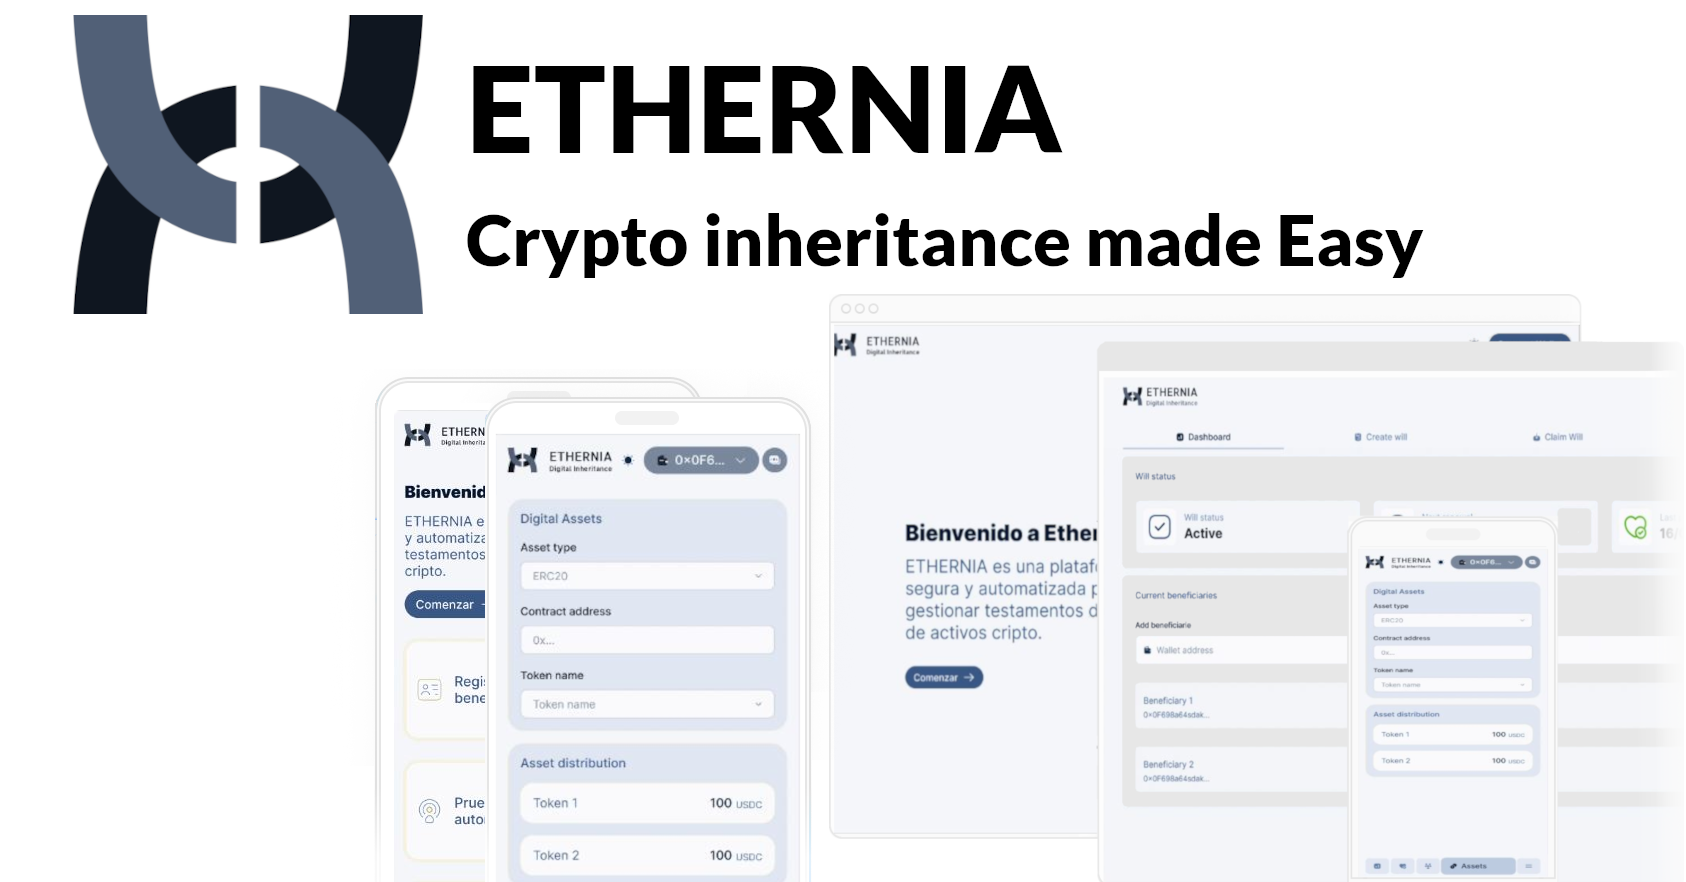
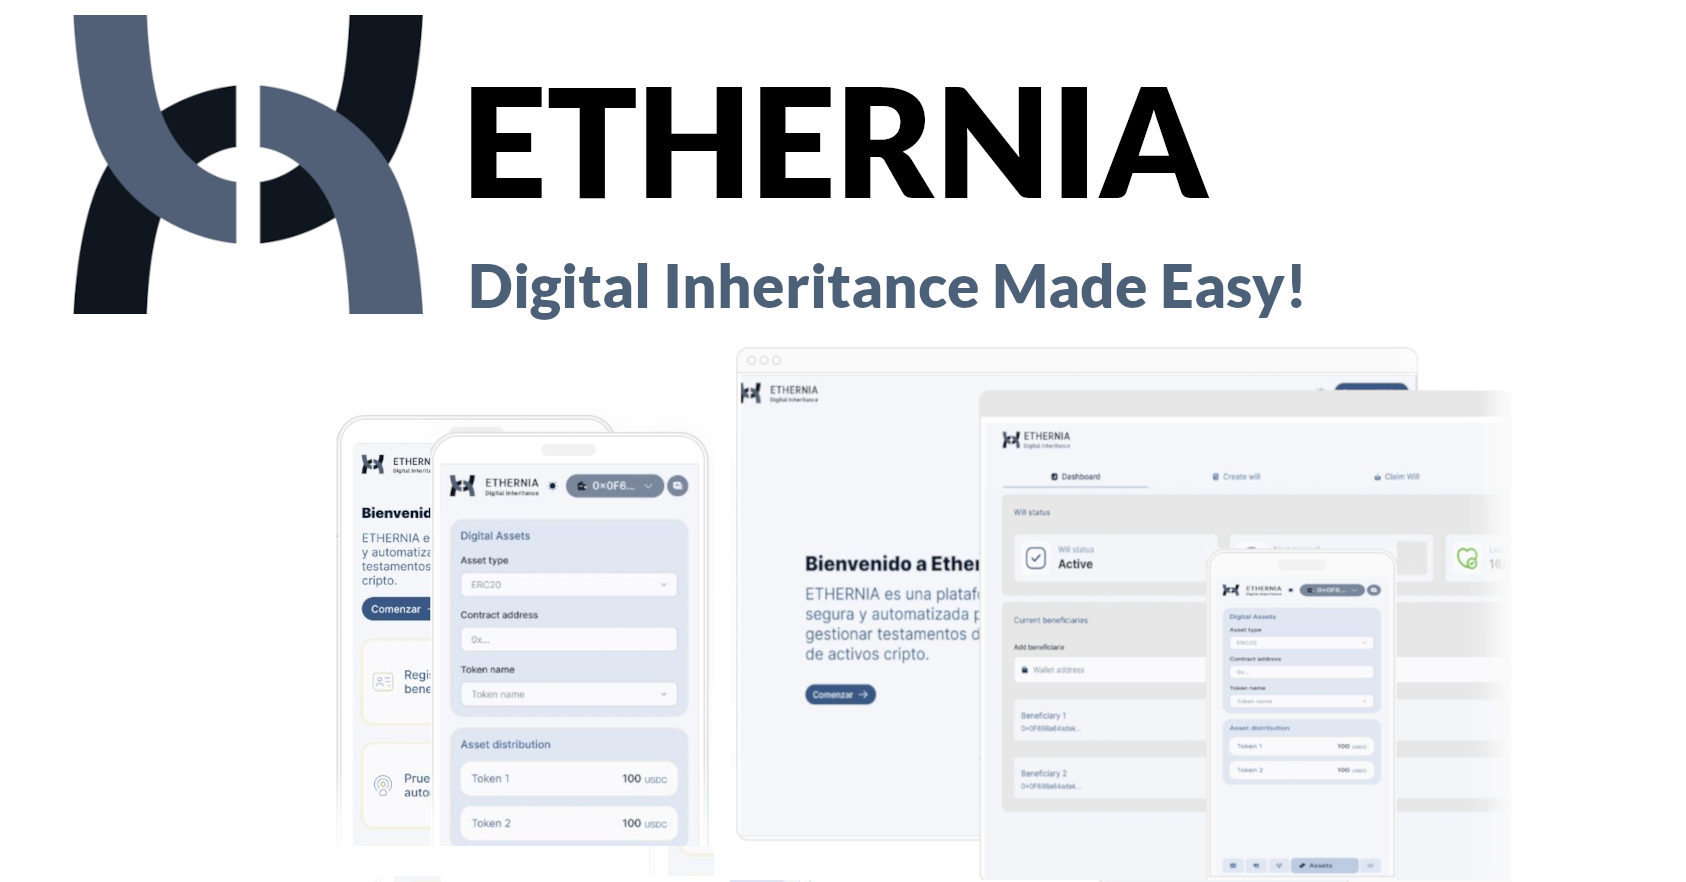
minor updates

diff --git a/packages/nextjs/components/landingpage/hero.tsx b/packages/nextjs/components/landingpage/hero.tsx
@@ -8,14 +8,30 @@ export default function Hero() {
   const { t } = useTranslation();
 
   return (
-    <section className="pt-24 pb-12 md:pt-32 md:pb-20">
-      <div className="container mx-auto px-4">
-        <motion.div
-          initial={{ opacity: 0, y: 20 }}
-          animate={{ opacity: 1, y: 0 }}
-          transition={{ duration: 0.5 }}
-          className="max-w-3xl mx-auto text-center"
+    <div className="hero bg-base-200 min-h-screen">
+      <motion.div
+        initial={{ opacity: 0, y: 20 }}
+        animate={{ opacity: 1, y: 0 }}
+        transition={{ duration: 0.5 }}
+        className="hero-content flex-col lg:flex-row-reverse"
         >
+        <Image
+          src="/ethernia-desktop.png"
+          width={1000}
+          height={760}
+          className="hidden md:block max-h-full object-contain max-w-sm rounded-lg shadow-2xl"
+          alt="Screenshots of the Ethernia dashboard project showing desktop version"
+          priority
+        />
+        <Image
+          src="/ethernia-mobile.png"
+          width={560}
+          height={620}
+          className="block md:hidden max-h-sm rounded-lg shadow-2xl mt-24"
+          alt="Screenshots of the Ethernia dashboard project showing mobile version"
+        />
+    
+        <div>
           <h1 className="text-4xl md:text-6xl font-bold tracking-tight bg-gradient-to-r from-primary to-purple-600 bg-clip-text  mb-6">
             {t('hero.title')}
           </h1>
@@ -25,53 +41,16 @@ export default function Hero() {
           <p className="text-xl md:text-2xl text-muted-foreground mb-8">
             {t('hero.subtitle1')}
           </p>
-          <div className="flex flex-row gap-4 justify-center">
+          <div className="flex flex-row gap-4">
             <Link href="dashboard" className="btn btn-primary w-36 text-base text-center">
               {t('hero.demo')}
             </Link>
-            <Link href="dashboard" className="btn w-36 text-base text-center">
+            <Link href="dashboard/createwill" className="btn w-36 text-base text-center">
               {t('hero.learnmore')}
             </Link>
           </div>
-        </motion.div>
-
-        <motion.div
-          initial={{ opacity: 0 }}
-          animate={{ opacity: 1 }}
-          transition={{ delay: 0.3, duration: 0.5 }}
-          className="mt-16 relative"
-        >
-          <div className="flex min-h-screen flex-col p-6">
-        <div className="aspect-[3/1] mt-4 flex grow flex-col gap-4 md:flex-row">
-          <div className="flex flex-col justify-center gap-0 rounded-lg px-6 py-10 md:w-2/5 md:px-20">
-            <p className="text-xl md:text-2xl text-muted-foreground mb-8">{t('hero.imagecontext')}</p>
-                           
-            <Link href="dashboard" className="btn btn-primary text-base">
-            <span>{t('hero.demo')}</span>
-            <LuArrowRight className="w-5 md:w-6" />
-            </Link>
-          </div>
-          <div className="rounded-xl overflow-hidden flex justify-center">
-          <Image
-             src="/ethernia-desktop.png"
-             width={1000}
-             height={760}
-             className="hidden md:block max-h-full object-contain"
-             alt="Screenshots of the Ethernia dashboard project showing desktop version"
-             priority
-            />
-            <Image
-              src="/ethernia-mobile.png"
-              width={560}
-              height={620}
-              className="block md:hidden"
-              alt="Screenshots of the Ethernia dashboard project showing mobile version"
-            />
-          </div>
-          </div>
-          </div>
-        </motion.div>
-      </div>
-    </section>
+        </div>
+      </motion.div>
+    </div>
   );
 }

diff --git a/packages/nextjs/lib/i18n/translations.ts b/packages/nextjs/lib/i18n/translations.ts
@@ -11,8 +11,8 @@ export const translations = {
       title: "Secure Your Crypto Legacy",
       subtitle0: "Make inheritance easy for you and your family.",
       subtitle1: "ETHERNIA provides a seamless and secure way to ensure your digital assets reach your loved ones.",
-      demo: "Launch Demo",
-      learnmore: "Learn More",
+      demo: "Login",
+      learnmore: "Sign Up",
       imagecontext: "Leave your family the gift of a lifetime, set your family up for life with a secure inheritance plan for your digital assets."
     },
     features: {
@@ -187,8 +187,8 @@ export const translations = {
       title: "Asegure su Legado Cripto",
       subtitle0: "Haz que la herencia sea fácil para ti y tu familia.",
       subtitle1: "ETHERNIA proporciona una forma segura y sencilla de garantizar que sus activos digitales lleguen a sus seres queridos.",
-      demo: "Iniciar Demo",
-      learnMore: "Más Información",
+      demo: "Ingresa",
+      learnMore: "Registrate",
       imagecontext: "Protege a tus seres queridos, garantiza su bienestar con un plan de herencia seguro para tus activos digitales."
     },
     features: {

diff --git a/packages/nextjs/components/dashboard/createwill/step6.tsx b/packages/nextjs/components/dashboard/createwill/step6.tsx
@@ -80,13 +80,6 @@ function PushNotificationManager() {
           <>
             <p className="text-primary">You are subscribed to push notifications.</p>
             <button className="btn btn-secondary" onClick={unsubscribeFromPush}>Unsubscribe</button>
-            <input
-              type="text"
-              placeholder="Enter notification message"
-              value={message}
-              onChange={(e) => setMessage(e.target.value)}
-            />
-            <button onClick={sendTestNotification}>Send Test</button>
           </>
         ) : (
           <>

diff --git a/packages/nextjs/components/landingpage/features.tsx b/packages/nextjs/components/landingpage/features.tsx
@@ -29,7 +29,7 @@ export default function Features() {
   ];
 
   return (
-    <section id="features" className="py-16 md:py-24 bg-muted/50">
+    <section id="features" className="py-12 bg-muted/50">
       <div className="container mx-auto px-4">
         <motion.div
           initial={{ opacity: 0, y: 20 }}

diff --git a/packages/nextjs/components/landingpage/aboutUs.tsx b/packages/nextjs/components/landingpage/aboutUs.tsx
@@ -3,7 +3,7 @@ import { motion } from "framer-motion";
 const team = [
   {
     name: "@elgallodev",
-    role: "Full Stack Web3 Developer",
+    role: "Full Stack Web3 Developer | Smart Contract Developer",
     image: "/elgallodev.jpg",
   },
   {
